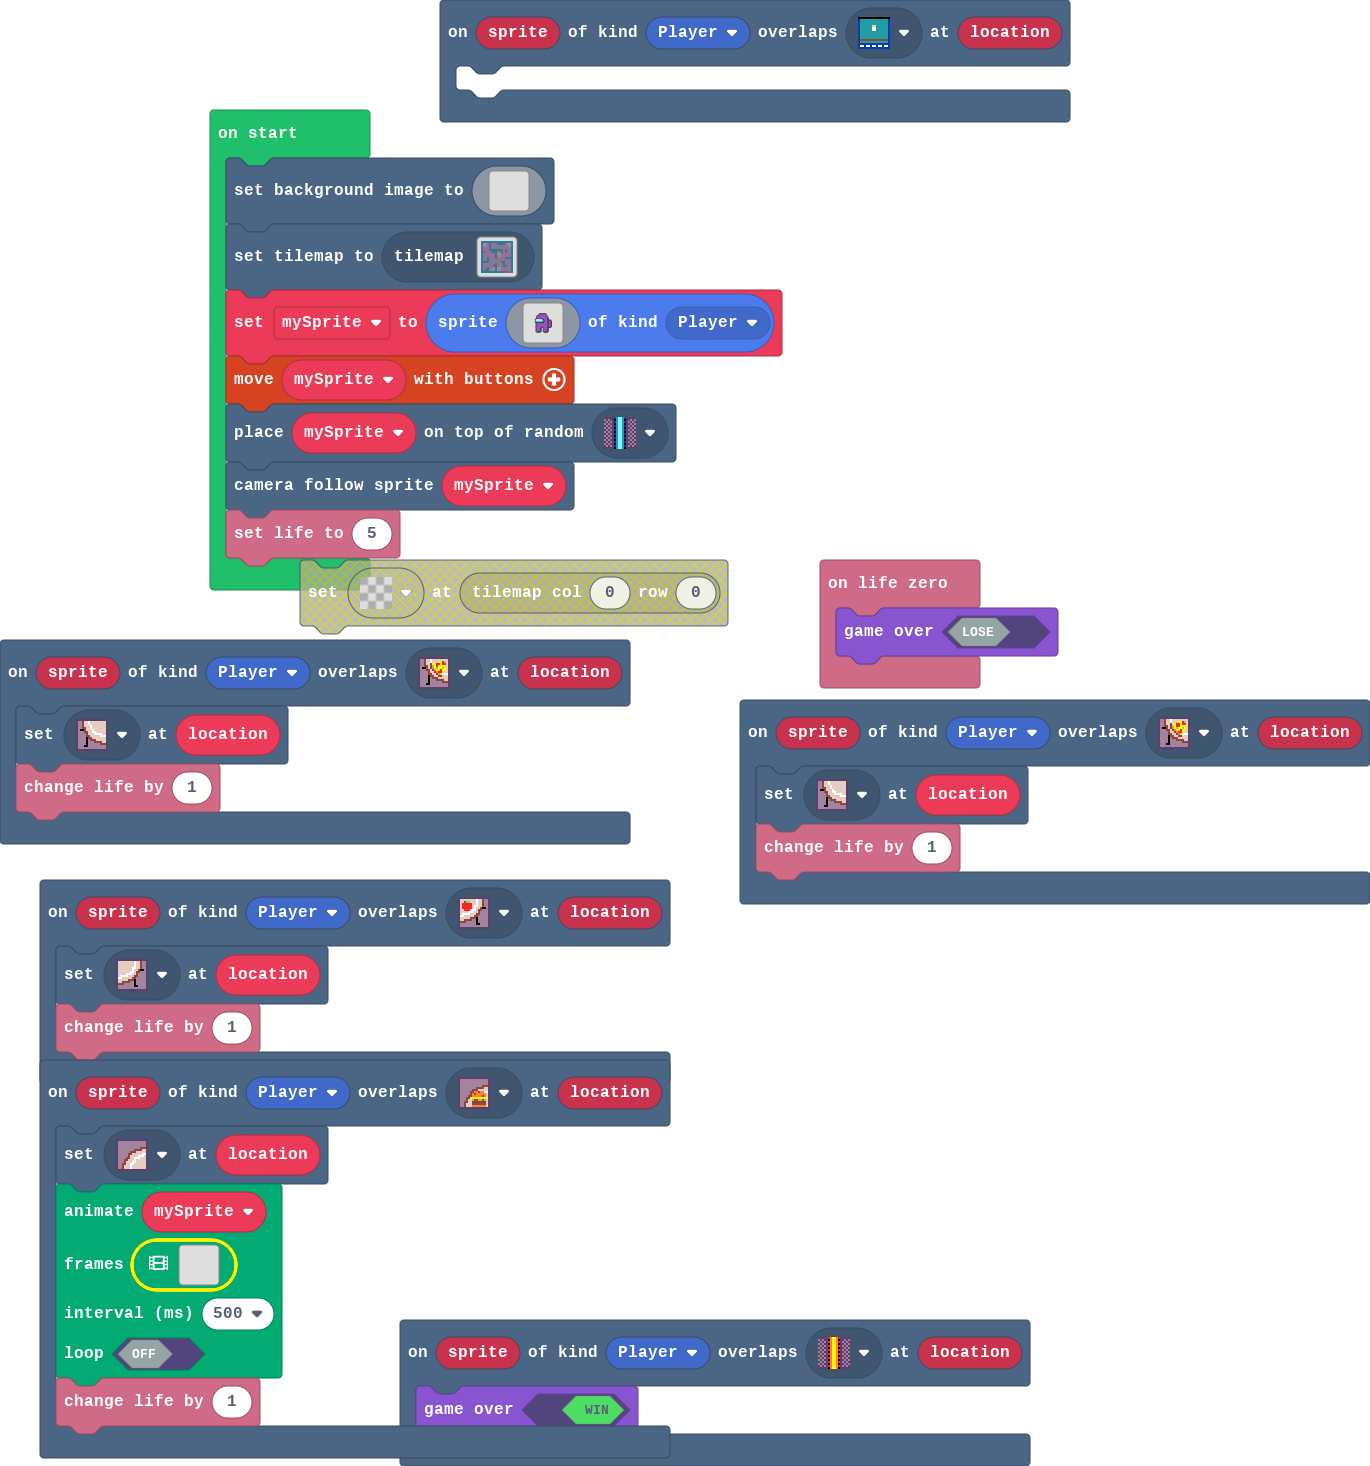
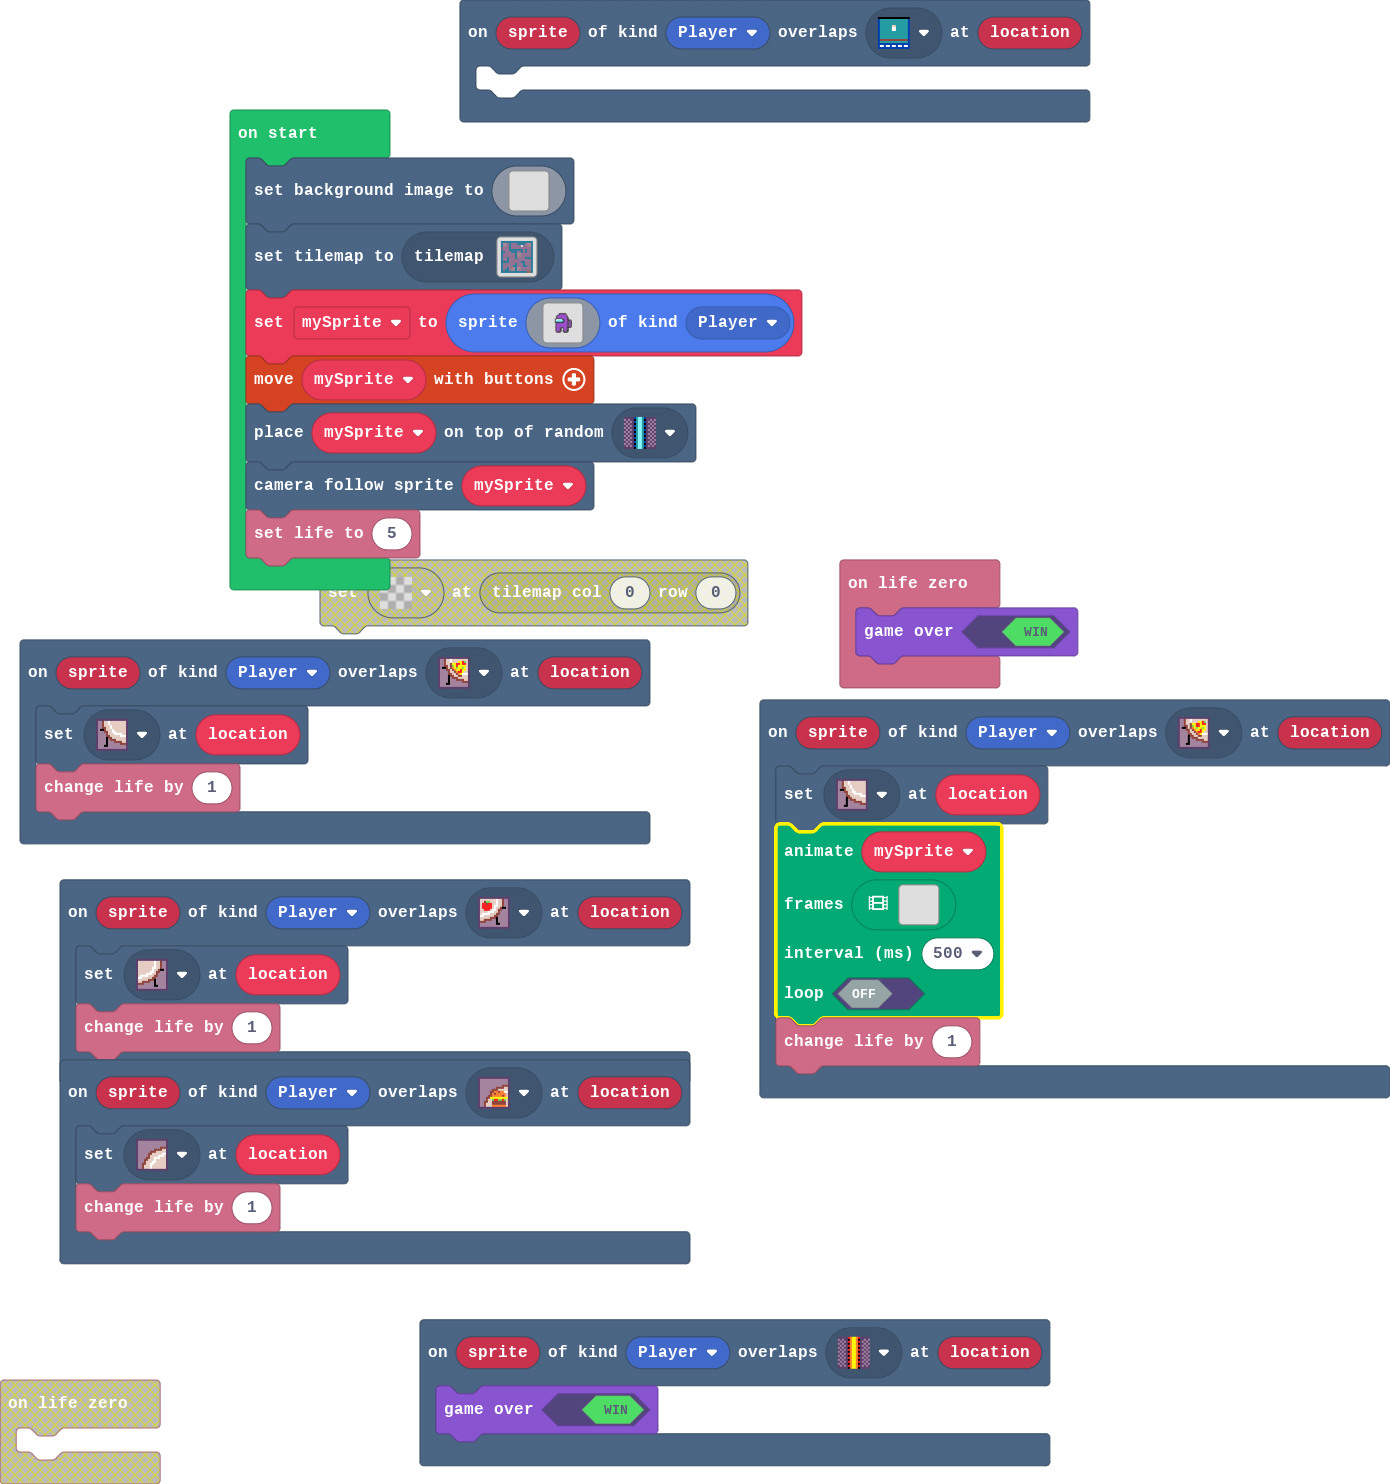
Update pxt.json, main.blocks, main.ts, tilemap.g.jres, tilemap.g.ts

Changed region(s): [[0.0, 0.0, 1.0, 1.0]]

diff --git a/tilemap.g.ts b/tilemap.g.ts
@@ -126,25 +126,6 @@ namespace myTiles {
 2 . 2 2 . . . 2 . . . . . . . 2 
 2 2 2 2 2 2 2 2 2 2 2 2 2 . . 2 
 `, [myTiles.transparency16,myTiles.tile2,myTiles.tile1,myTiles.tile3,myTiles.tile4,myTiles.tile5,myTiles.tile6,myTiles.tile7,myTiles.tile9,myTiles.tile10,myTiles.tile13,myTiles.tile11], TileScale.Sixteen);
-            case "level2":
[1 lines of base64/hex data omitted]
-2 2 2 2 2 2 2 2 2 2 2 2 2 2 2 2 
-2 . . . 2 . . . 2 2 2 2 . . . 2 
-2 . . . 2 . . . . . . . . . . 2 
-. . . . 2 . . . . . . . . . . 2 
-. . . . 2 2 2 2 2 2 2 . 2 . . 2 
-2 2 . . . 2 2 2 . . 2 . 2 . . 2 
-2 . . . . . . 2 . . . . . . . 2 
-2 . . . . . . 2 . . . . . . . 2 
-2 . . 2 . . . 2 . . . . 2 2 2 2 
-2 . . 2 . . . . . . . . . . . 2 
-2 2 2 2 . . . . . . 2 2 . . . 2 
-2 . . . . . . 2 . . . 2 . . . 2 
-2 . . . . . 2 2 . . . 2 2 . . 2 
-2 . . 2 . . . 2 . . . . . . . 2 
-2 . 2 2 . . . 2 . . . . . . . 2 
-2 2 2 2 2 2 2 2 2 2 2 2 2 . . 2 
-`, [myTiles.transparency16,myTiles.tile2,myTiles.tile1,myTiles.tile3,myTiles.tile4,myTiles.tile5,myTiles.tile6,myTiles.tile7,myTiles.tile9,myTiles.tile10,myTiles.tile11,myTiles.tile12,myTiles.tile13], TileScale.Sixteen);
             case "level7":
             case "level7":return tiles.createTilemap(hex`1000100000000000000000000000000000000000000000000000000000000000000000000000000000000000000000000000000000000000000000000000000000000000000000000000000000000000000000000000000000000000000000000000000000000000000000000000000000000000000000000000000000000000000000000000000000000000000000000000000000000000000000000000000000000000000000000000000000000000000000000000000000000000000000000000000000000000000000000000000000000000000000000000000000000000000000000000000000000000000000000000000000000000000000000000000000000000`, img`
 . . . . . . . . . . . . . . . . 
@@ -164,6 +145,25 @@ namespace myTiles {
 . . . . . . . . . . . . . . . . 
 . . . . . . . . . . . . . . . . 
 `, [myTiles.transparency16], TileScale.Sixteen);
+            case "level2":
[1 lines of base64/hex data omitted]
+2 2 2 2 2 2 2 2 2 2 2 2 2 2 2 2 
+2 . . . 2 . . . 2 2 2 2 . . . 2 
+2 . . . 2 . . . . . . . . . . 2 
+. . . . 2 . . . . . . . . . . 2 
+. . . . 2 2 2 2 2 2 2 . 2 . . 2 
+2 2 . . . 2 2 2 . . 2 . 2 . . 2 
+2 . . . . . . 2 . . . . . . . 2 
+2 . . . . . . 2 . . . . . . . 2 
+2 . . 2 . . . 2 . . . . 2 2 2 2 
+2 . . 2 . . . . . . . . . . . 2 
+2 2 2 2 . . . . . . 2 2 . . . 2 
+2 . . . . . . 2 . . . 2 . . . 2 
+2 . . . . . 2 2 . . . 2 2 . . 2 
+2 . . 2 . . . 2 . . . . . . . 2 
+2 . 2 2 . . . 2 . . . . . . . 2 
+2 2 2 2 2 2 2 2 2 2 2 2 2 . . 2 
+`, [myTiles.transparency16,myTiles.tile2,myTiles.tile1,myTiles.tile3,myTiles.tile4,myTiles.tile5,myTiles.tile6,myTiles.tile7,myTiles.tile9,myTiles.tile10,myTiles.tile11,myTiles.tile12,myTiles.tile13], TileScale.Sixteen);
         }
         return null;
     })

diff --git a/main.ts b/main.ts
@@ -3,6 +3,24 @@ scene.onOverlapTile(SpriteKind.Player, assets.tile`myTile`, function (sprite, lo
 })
 scene.onOverlapTile(SpriteKind.Player, assets.tile`myTile9`, function (sprite, location) {
     tiles.setTileAt(location, assets.tile`myTile3`)
+    info.changeLifeBy(1)
+})
+scene.onOverlapTile(SpriteKind.Player, assets.tile`myTile2`, function (sprite, location) {
+    game.gameOver(true)
+})
+scene.onOverlapTile(SpriteKind.Player, assets.tile`myTile5`, function (sprite, location) {
+    tiles.setTileAt(location, assets.tile`myTile8`)
+    info.changeLifeBy(1)
+})
+info.onLifeZero(function () {
+    game.gameOver(true)
+})
+scene.onOverlapTile(SpriteKind.Player, assets.tile`myTile10`, function (sprite, location) {
+    tiles.setTileAt(location, assets.tile`myTile7`)
+    info.changeLifeBy(1)
+})
+scene.onOverlapTile(SpriteKind.Player, assets.tile`myTile11`, function (sprite, location) {
+    tiles.setTileAt(location, assets.tile`myTile7`)
     animation.runImageAnimation(
     mySprite,
     [img`
@@ -26,24 +44,6 @@ scene.onOverlapTile(SpriteKind.Player, assets.tile`myTile9`, function (sprite, l
     500,
     false
     )
-    info.changeLifeBy(1)
-})
-scene.onOverlapTile(SpriteKind.Player, assets.tile`myTile2`, function (sprite, location) {
-    game.gameOver(true)
-})
-scene.onOverlapTile(SpriteKind.Player, assets.tile`myTile5`, function (sprite, location) {
-    tiles.setTileAt(location, assets.tile`myTile8`)
-    info.changeLifeBy(1)
-})
-info.onLifeZero(function () {
-    game.gameOver(false)
-})
-scene.onOverlapTile(SpriteKind.Player, assets.tile`myTile10`, function (sprite, location) {
-    tiles.setTileAt(location, assets.tile`myTile7`)
-    info.changeLifeBy(1)
-})
-scene.onOverlapTile(SpriteKind.Player, assets.tile`myTile11`, function (sprite, location) {
-    tiles.setTileAt(location, assets.tile`myTile7`)
     info.changeLifeBy(1)
 })
 let mySprite: Sprite = null
